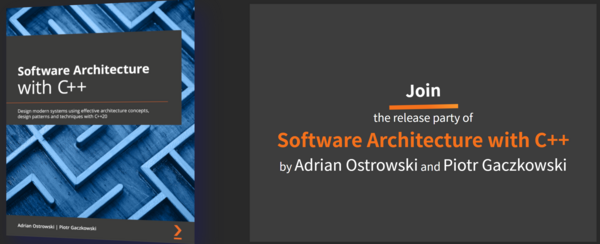
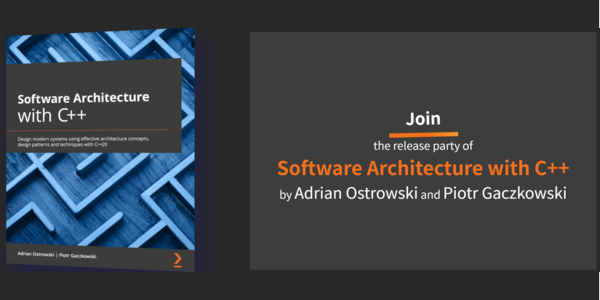
Fix OG image

diff --git a/public/index.html b/public/index.html
@@ -13,15 +13,15 @@
     <meta property="og:title" content="Release Party | Software Architecture with C++" />
     <meta property="og:description" content="Come join our party. You're invited." />
     <meta property="og:url" content="https://releaseparty.netlify.app" />
-    <meta property="og:image" content="https://releaseparty.netlify.app/releaseparty_og.png" />
+    <meta property="og:image" content="https://releaseparty.netlify.app/releaseparty_og_2.png" />
     <meta name="twitter:card" content="summary_large_image" />
     <meta name="twitter:title" content="Release Party | Software Architecture with C++" />
     <meta name="twitter:description" content="Come join our party. You're invited." />
     <meta name="twitter:url" content="https://releaseparty.netlify.app" />
-    <meta name="twitter:image" content="https://releaseparty.netlify.app/releaseparty_og.png" />
+    <meta name="twitter:image" content="https://releaseparty.netlify.app/releaseparty_og_2.png" />
     <meta name="twitter:site" content="@DoomHammerNG" />
-    <meta property="og:image:width" content="600" />
-    <meta property="og:image:height" content="244" />
+    <meta property="og:image:width" content="1200" />
+    <meta property="og:image:height" content="627" />
     <title>Software Architecture with C++</title>
   </head>
   <body>
